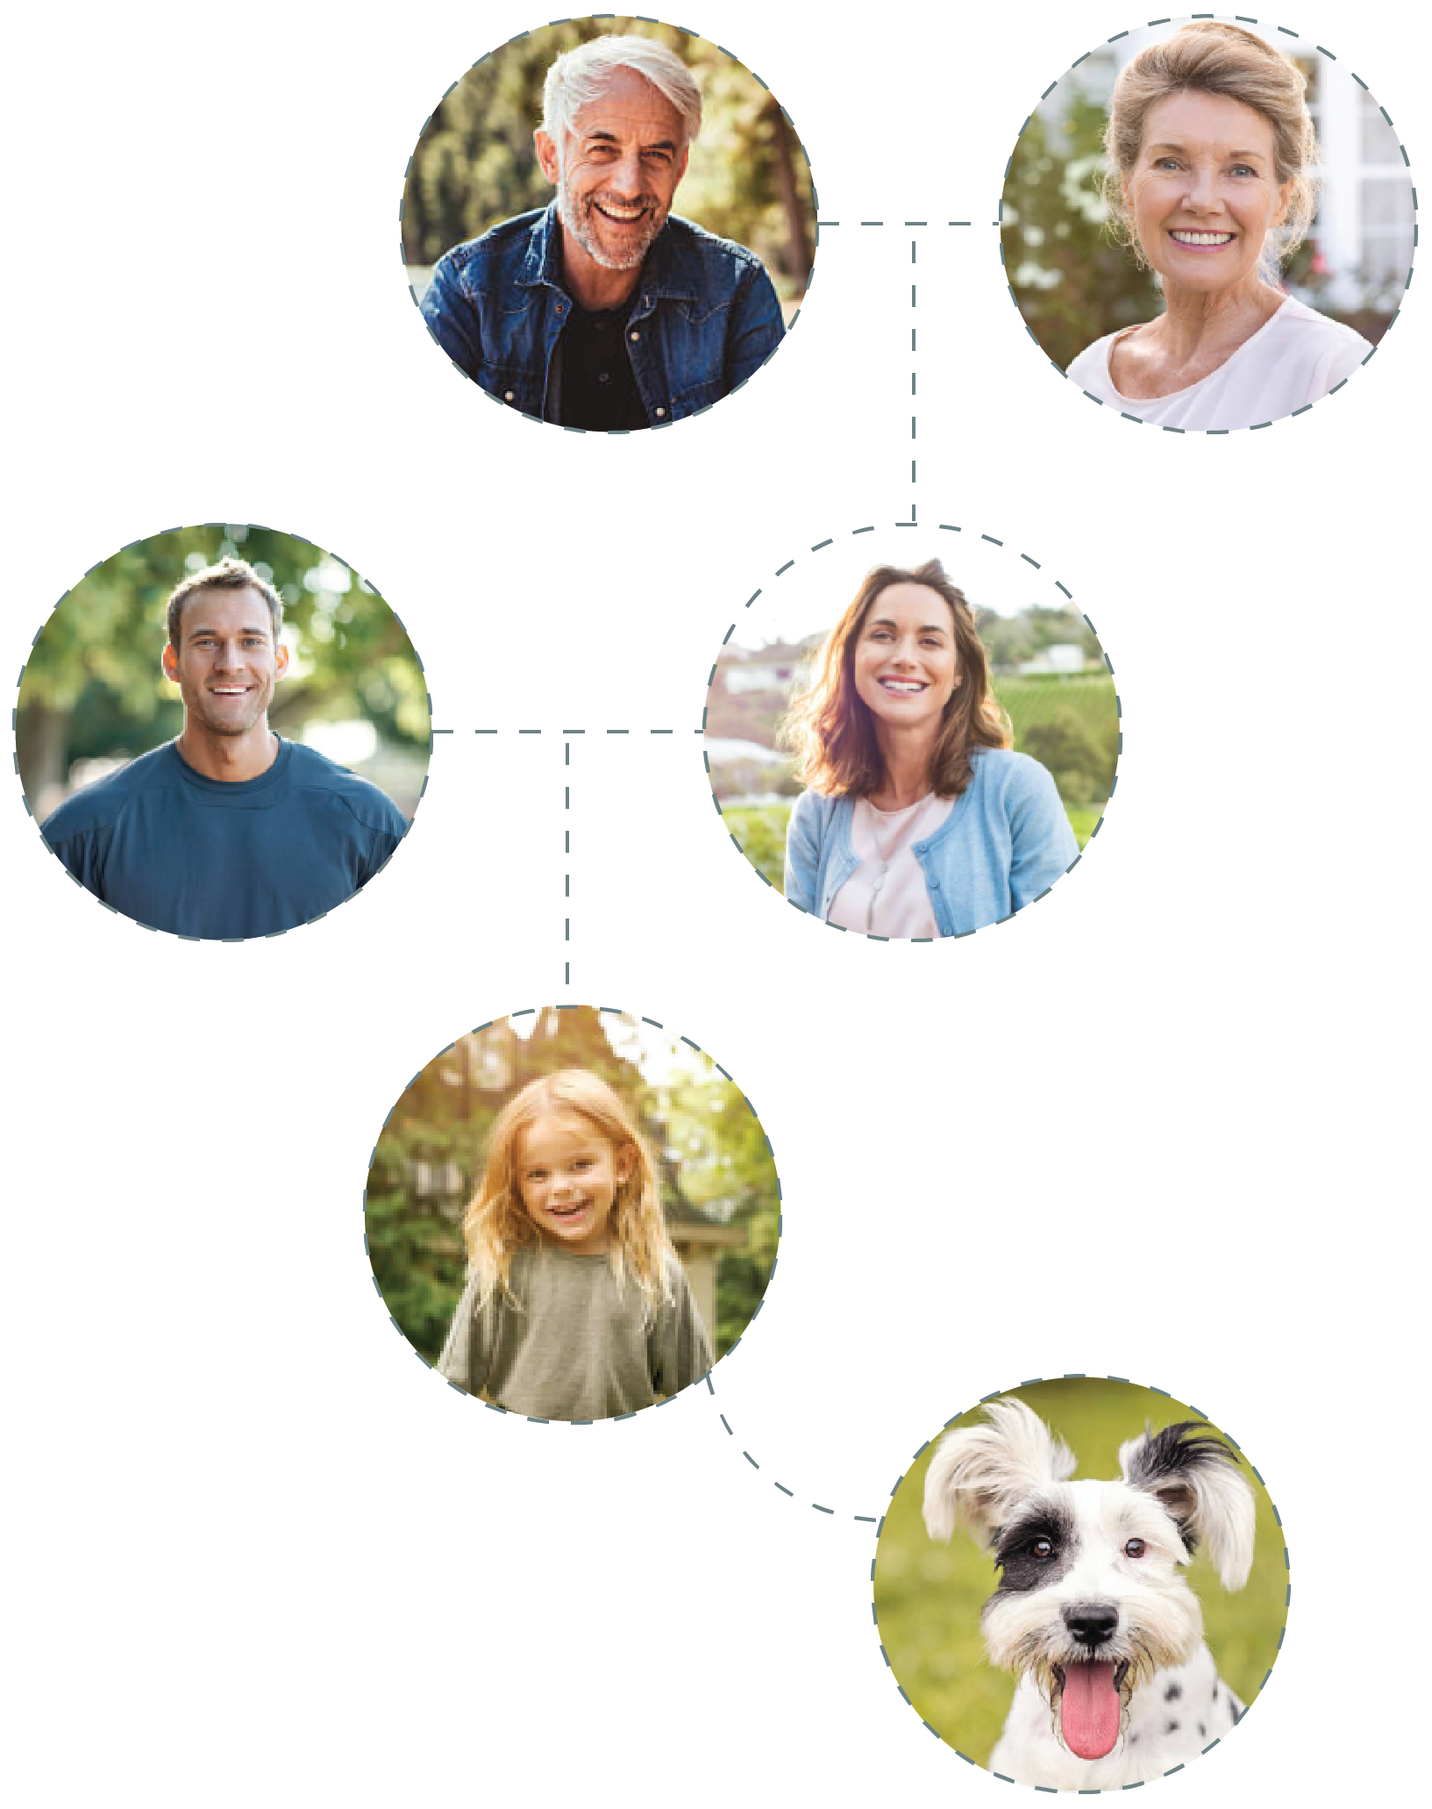
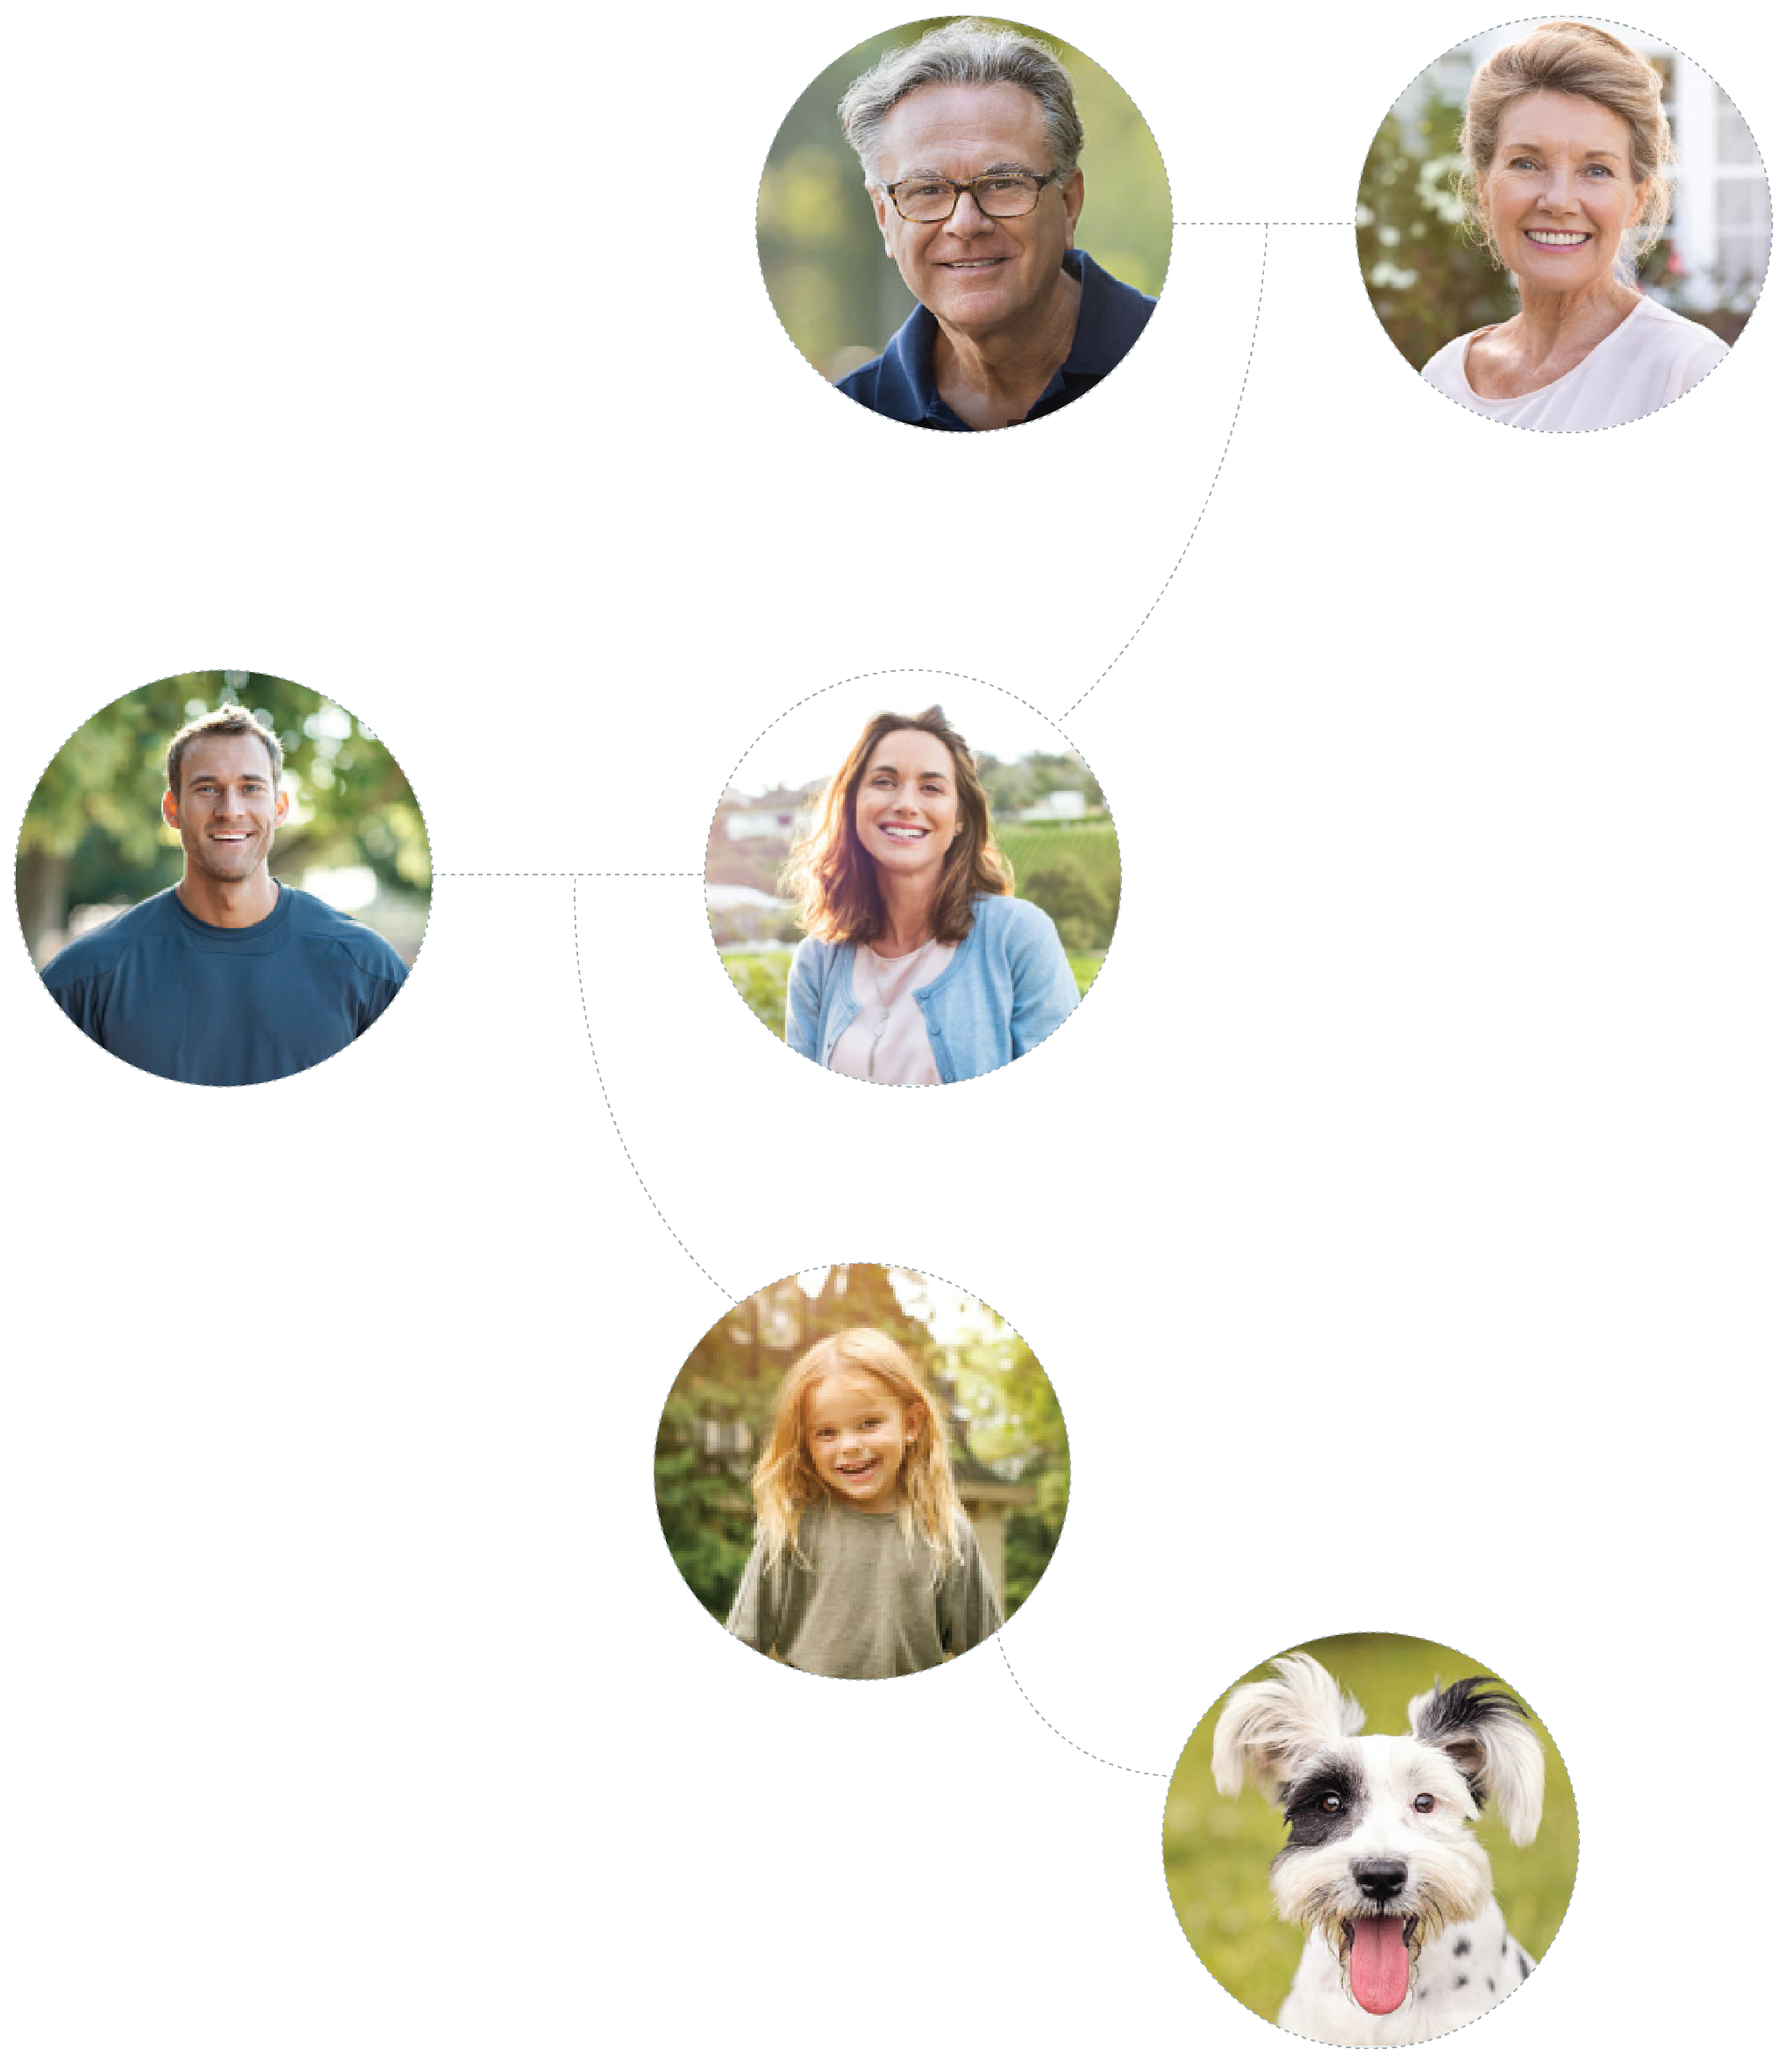
added fixed navbar, adjusted family tree, footer, aligned bottom circles

diff --git a/app/index.html b/app/index.html
@@ -8,28 +8,48 @@
     <link href="https://fonts.googleapis.com/css?family=Karla" rel="stylesheet">
   </head>
   <body>
-    <row>
-      <img class="logo" src="images/JH_Logo.png" />
-      <span class="header">Judy Hulsey | Family Wealth Strategist</span>
 
-      <span class="nav">Contact</span>
-    </row>
+    <nav class="navbar navbar-fixed-top">
+      <div class="container">
+        <div class="navbar-header">
+          <a class="navbar-brand" href="#">Judy Hulsey | Family Wealth Strategist</a>
+        </div>
+        <ul class="nav navbar-nav navbar-right">
+          <li><a href="#">About</a></li>
+          <li><a href="#">Blog</a></li>
+          <li><a href="#">Contact</a></li>
+        </ul>
+      </div>
+    </nav>
+
+
     <div class="banner">
-    <img src="images/header.jpg" alt="little girl playing chess with grandfather"/>
-    <h1 class="banner-text">Family Wealth is more than<br/>just a numbers game.</h1>
-    </div>
-    <div class="row">
-      <h2 class="legacy">It's about your legacy.</h2>
-      <img class="col-md-8 col-md-push-2" src="images/JH-Legacy.png" alt="legacy">
+      <img src="images/header.jpg" alt="little girl playing chess with grandfather"/>
+      <h1 class="banner-text">Family Wealth is more than<br/>just a numbers game.</h1>
     </div>
 
-    <div>
-      <h2 class="col-md-8 col-md-push-2">And that legacy should be protected and preserved through all generations.</h2>
-      <img class="col-md-8 col-md-push-2" src="images/family-tree.png" alt="family tree">
+    <div class="container main-body">
+      <div class="row tree">
+        <h2 class="col-md-11 col-md-push-1">It's about <br/> your legacy.</h2>
+        <h2 class="col-md-4 col-md-push-8 protected">And that legacy should be protected and preserved through all generations.</h2>
+        <h2 class="col-md-9 regardless">...Regardless of <br/> how your family tree grows.</h2>
+      </div>
+
+      <div>
+        <h2 class="ready">Ready to Learn More?</h2>
+      </div>
+
+      <div class="row legacy">
+        <img class="col-md-4" src="images/investments.png" alt="investments">
+        <img class="col-md-4" src="images/family.png" alt="family">
+        <img class="col-md-4" src="images/philanthropy.png" alt="philanthropy">
+      </div>
     </div>
-    <div>
-      <h2 class="col-md-7 col-md-push-3">...Regardless of how your family tree grows.</h2>
+
+    <div class="footer">
+      <h3>Ready to Learn More? Call Judy at XXX-XXX-XXXX</h3>
     </div>
+
     <script src="js/bundle.js"></script>
   </body>
 </html>

diff --git a/app/styles/app.scss b/app/styles/app.scss
@@ -15,27 +15,34 @@ $icon-font-path: '../../node_modules/bootstrap-sass/assets/fonts/bootstrap/';
 img {
   max-width: 100%;
 }
+body {
+  padding-top: 50px;
+}
 
 .logo {
-  height: 75px;
+  height: 60px;
   padding: 15px;
 }
 
-.header {
-  font-size: 30px;
-  color: #008403;
-  font-family: serif;
+.navbar{
+  background-color: #969DBA;
 }
 
-.nav {
+.navbar-header a, .navbar-nav a {
   font-size: 20px;
-  color: #008403;
+  color: white;
   font-family: 'Karla', sans-serif;
-  display: inline-block;
-  position: absolute;
-  right: 20px;
-  top: 20px;
 }
+
+// .nav {
+//   font-size: 20px;
+//   color: white;
+//   font-family: 'Karla', sans-serif;
+//   display: inline-block;
+//   position: absolute;
+//   right: 20px;
+//   top: 20px;
+// }
 
 .banner {
   position: relative;
@@ -54,14 +61,46 @@ img {
   padding: 40px 40px;
 }
 
-.legacy {
-  padding-top: 110px;
+.main-body {
+  margin-top: 50px;
 }
+.tree {
+  background-image: url("images/family-tree.png");
+  background-size: cover;
+  height: 1340px;
+}
+
 h2 {
   font-size: 55px;
   font-weight: bolder;
-  color: #381893;
+  color: #2C637B;
   font-family: 'Karla', sans-serif;
-  text-align: center;
+  text-align: left;
+  padding-top: 80px;
+}
+
+.protected {
+  padding-top: 200px;
+}
+.regardless {
+  padding-top: 280px;
+}
+
+.ready {
+  color: white;
+  background-color: #2C637B;
   padding: 20px;
+  text-align: center;
+}
+
+.legacy {
+  padding: 30px 5px;
+}
+
+.footer{
+  background-color: #969DBA;
+  color: white;
+  padding-top: 15px;
+  height: 100px;
+  text-align: center;
 }
